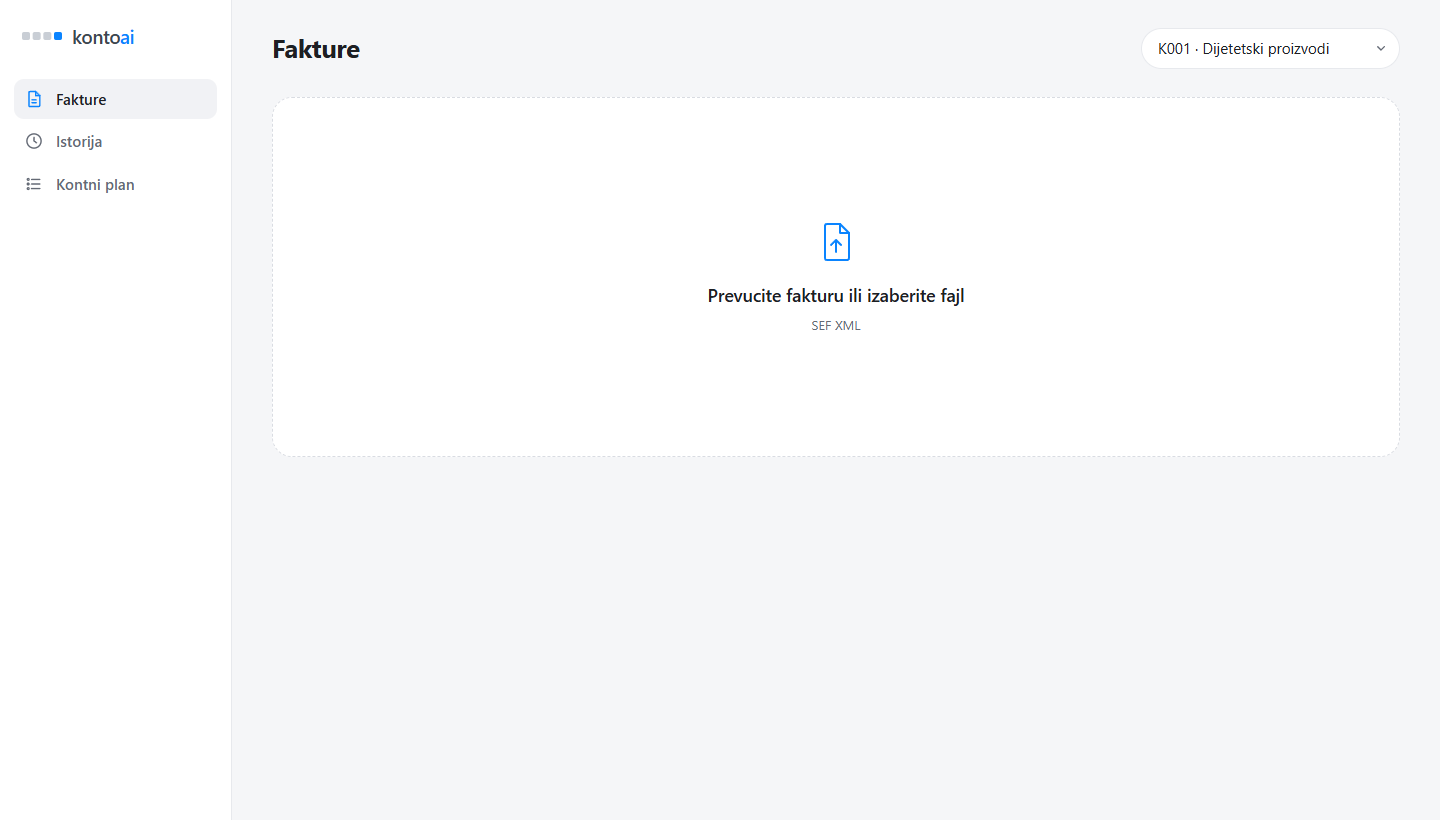
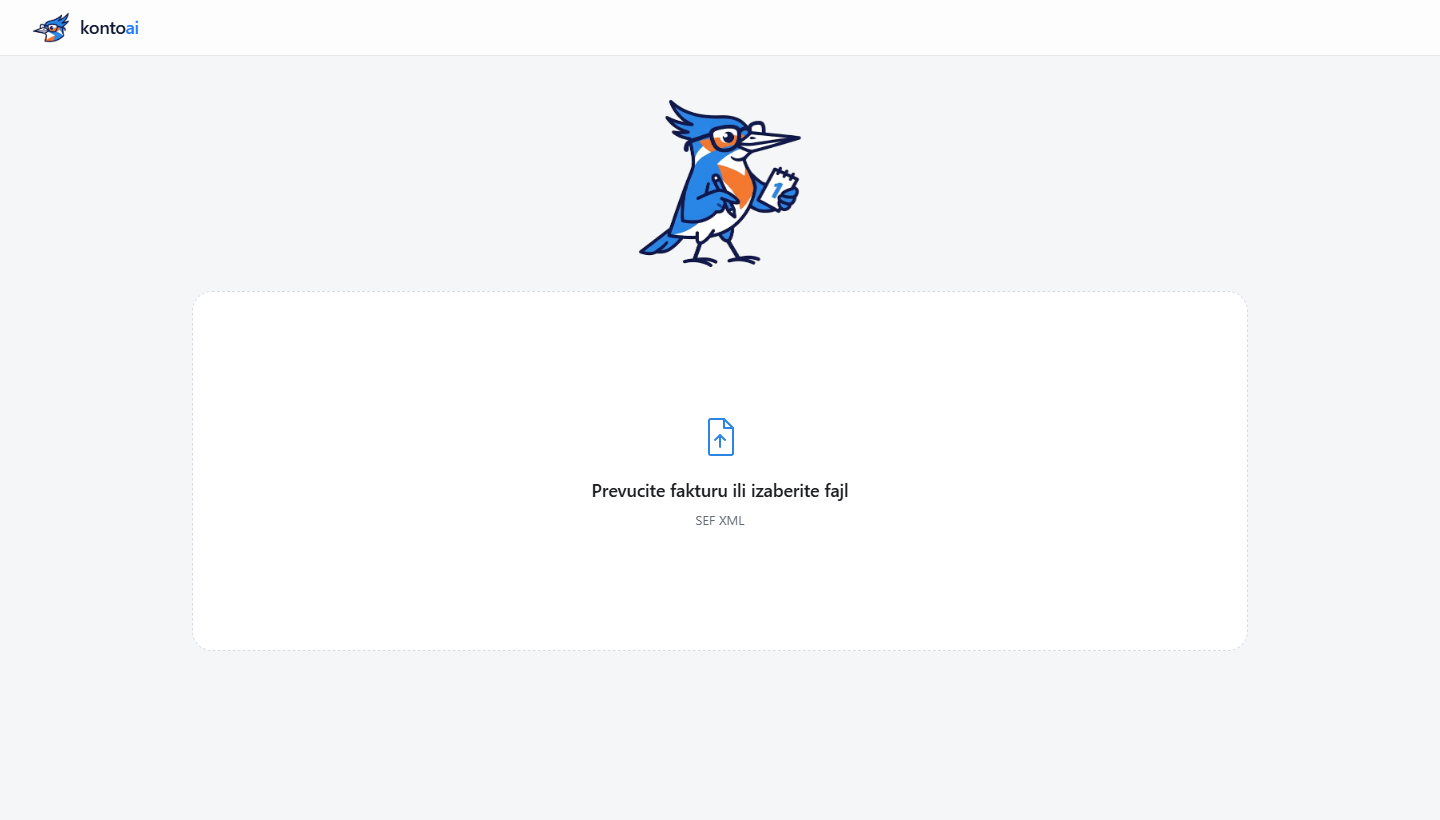
Replace README screenshots with invoice 07 and the mascot
Start screen with the kingfisher, the first upload of invoice 07 with the panel on the bank fee (Iris 559 vs. system 553), and the second upload where the accountant's earlier 553 · 5530 is preselected. Real Gemini run: 7 requests, the second upload answered from history and cache. The panel no longer repeats the 'Prošli put…' line under the analytic picker.

diff --git a/app/static/app.js b/app/static/app.js
@@ -352,7 +352,7 @@ function renderPanel() {
     <div>
       <div class="field-label">Analitika</div>
       ${options.length ? analyticSelect(row, "panel-analytic") : '<span class="dash">Nema analitike ispod ovog konta</span>'}
-      ${a && a.explanation && options.length && a.source !== "none" ? `<p class="reason reason-sub">${esc(a.explanation)}</p>` : ""}
+      ${a && a.explanation && options.length && a.source !== "none" && !s.previous_choice ? `<p class="reason reason-sub">${esc(a.explanation)}</p>` : ""}
     </div>` : ""}
     <button class="btn-primary" id="panel-confirm" type="button"${row.confirmed ? " disabled" : ""}>${row.confirmed ? "Potvrđeno" : "Potvrdi"}</button>`;
 

diff --git a/README.md b/README.md
@@ -28,33 +28,33 @@ Iris stays authoritative: the analytic account is chosen below the Iris account.
 
 ## Demo
 
-These are real runs with Gemini (`gemini-3.6-flash`) through the web page, on 2026-11-07. The invoice was [`06_iris_provera_dijetetika.xml`](data/samples/06_iris_provera_dijetetika.xml), the client was `K001` (*proizvodnja dijetetskih proizvoda*), and the analytic plan was the trial plan.
+These are real runs with Gemini (`gemini-3.6-flash`) through the web page, on 2026-11-07. The invoice was the manual-test invoice [`07_test_dijetetika.xml`](data/samples/07_test_dijetetika.xml), and the client was `K001` (*proizvodnja dijetetskih proizvoda*), with the trial analytic plan. The invoice has seven lines modelled on the accountant's own items. One is a deliberate mistake: the bank fee carries Iris account 559 instead of 553. A step-by-step manual test is in [`docs/RUCNI_TEST.md`](docs/RUCNI_TEST.md).
 
-**Start:** choose the client, then drop the SEF XML.
+**Start:** one screen. The kingfisher sits above the drop zone, and there are no pages or menus. The client picker appears only when there is more than one client.
 
 ![Start screen](docs/screenshots/00_pocetna.png)
 
-**1. After the upload**, with the detail panel open on the row that does not match Iris:
+**1. After the upload**, with the detail panel open on the bank fee:
 
 ![First upload](docs/screenshots/01_prvo_ubacivanje.png)
 
-- **Konto column:** a green check means the system's own 3-digit account matches Iris, and a yellow dot means it needs a look. No other labels are shown in the table.
-- **Rows 1–3** match Iris.
-  - Rows 1 and 2: the LLM chose the analytic account from the offered list, 5330 (office) and 5331 (warehouse).
-  - Row 3: the plan has only one analytic account below 513, so no LLM call was needed.
-- **Row 4:** no rule applies, so the LLM proposed 532 against Iris' 539.
-- **Row 5** (panel): the rent rule says 533, Iris says 539.
-- **The detail panel** opens when you click a row. It holds the Iris-vs-system comparison, the confidence, the reasoning, and the account and analytic pickers. *Potvrdi sve usklađene (3)* confirms the three green rows in one click.
+- **Konto column:** a green check means the system's own 3-digit account matches Iris, and a yellow dot means it needs a look.
+- **Green rows 1–5:** history and rules (or the LLM) agree with Iris.
+  - The analytic account is preselected: by the LLM from the offered list, or directly when the plan has only one option.
+  - *Potvrdi sve usklađene (5)* confirms them in one click.
+- **Bank fee** (panel): Iris says 559, and the bank-fee rule says 553. The row needs a decision. The accountant picks 553 and 5530 in the panel and confirms.
+- **Protective masks:** Gemini did not agree with Iris' 539, so this row is yellow too. That is a real disagreement surfaced for review, not a bug.
+- **When every line is confirmed,** a small kingfisher head and *"Sve stavke su potvrđene."* replace the button.
 
-**2. After confirming 5331 in row 2 and uploading the same invoice again** (panel on row 2):
+**2. Uploading the same invoice again** (panel on the bank fee):
 
 ![Second upload](docs/screenshots/02_drugo_ubacivanje.png)
 
-- **Row 2** now comes from item history (95%): the same supplier and the same description were confirmed before.
-- **The other lines are untouched by that single confirmation.** Row 1 keeps 5330, and row 3 stays 513 → 5133.
-- **The second upload made no LLM calls.** Row 2 came from history, and the other lines' identical masked requests were answered from the server's in-memory cache.
+- **The accountant's earlier decision is preselected:** 553 · 5530, with *"Prošli put ste izabrali 553 · 5530"* in the panel. It is offered only for the **same item of the same supplier**, and only while Iris still gives the same account (559) it gave then. The row keeps its yellow dot, because it still does not match Iris.
+- **Supplier-level history** may still only suggest analytic accounts below the Iris account.
+- **The second upload made no LLM calls.** Confirmed lines came from history, and the rest from the server's in-memory cache.
 
-**Logo** ([`/logo-preview`](app/static/logo-preview.html)): four squares, one per digit of the account. The first three, grey, come from the accounting software. The fourth, blue, is the analytic digit that KontoAI suggests.
+**Logo** ([`/logo-preview`](app/static/logo-preview.html)): a kingfisher with a notebook. The full figure is on the start screen. The head appears next to the wordmark *konto*ai in the top bar and as the favicon. The assets are built by [`scripts/brand_assets.py`](scripts/brand_assets.py) from [`docs/brand/mascot_source.png`](docs/brand/mascot_source.png): it crops both figures, makes the background transparent and builds 32/16 px favicons. They are PNGs, because the SVG tracer (vtracer 0.6.15) crashes on Python 3.14 / Windows. On dark backgrounds the navy outline disappears, so there the mascot sits on a light tile.
 
 #### The bug this demo found, and the fix
 
@@ -80,7 +80,8 @@ A test replays the demo exactly: `test_demo_replay_sample_06_learning_without_sp
 | First version, before the fix: the in-app browser plus two headless uploads | 12 | ≈ $0.033 |
 | Re-run after the fix, clean database, server cap 8 | 5 (second upload 0, from cache) | ≈ $0.015 |
 | Screenshots of the redesigned page, clean database, server cap 6 | 5 (everything after the first upload came from history and cache) | ≈ $0.015 |
-| **Total** | **22** | **≈ $0.06** |
+| Screenshots with invoice 07 and the mascot, temporary database, server cap 7 | 7 (second upload 0) | ≈ $0.020 |
+| **Total** | **29** | **≈ $0.08** |
 
 ## How it works
 
